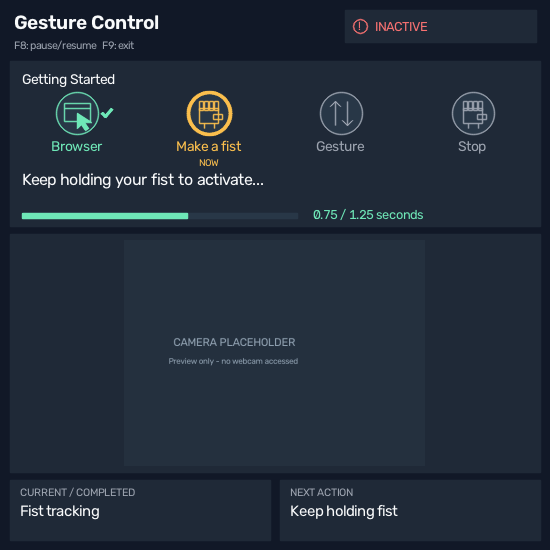
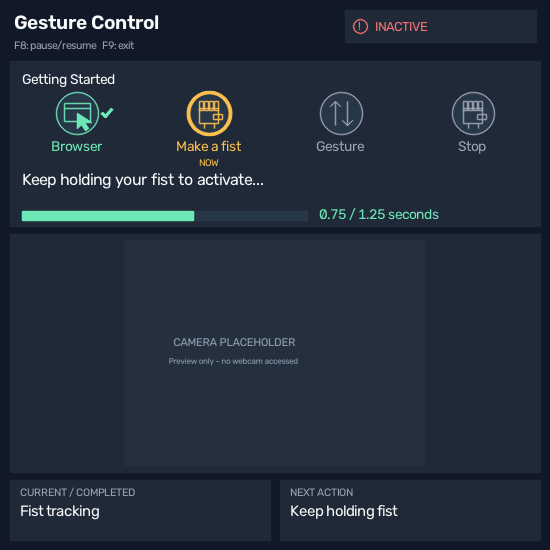
Move scroll arrow beside camera and enlarge hold progress feedback

Changed region(s): [[0.0309, 0.3709, 0.3709, 0.4018], [0.5564, 0.3709, 0.8036, 0.4018]]

diff --git a/ui.py b/ui.py
@@ -234,10 +234,10 @@ def compose_frame(camera_image, state, size=DEFAULT_SIZE):
     for row, value in enumerate(wrap_text(state.guidance, 506, .55, measure)):
         words(value, 22, 185 + row * 19, .55)
     if state.progress is not None:
-        box(22, 213, 275, 5, (71, 55, 40))
+        box(22, 211, 285, 9, (71, 55, 40))
         if state.progress > 0:
-            box(22, 213, 275 * state.progress, 5, green)
-        words(state.timer, 313, 219, .43, green)
+            box(22, 211, 285 * state.progress, 9, green)
+        words(state.timer, 319, 219, .49, green)
 
     box(10, 234, 530, 238)
     # The only raster resampling is the video, before any UI text is drawn.
@@ -250,13 +250,25 @@ def compose_frame(camera_image, state, size=DEFAULT_SIZE):
     interpolation = cv2.INTER_AREA if video_scale < 1 else cv2.INTER_LINEAR
     video = cv2.resize(camera_image, (video_w, video_h), interpolation=interpolation)
     x, y = left + (area_w - video_w) // 2, top + (area_h - video_h) // 2
+    # Normally the aspect-ratio padding provides the arrow's right gutter.
+    # Reserve a gutter for unusually wide feeds too, without stretching video.
+    gutter = round(64 * unit)
+    if state.direction and right - (x + video_w) < gutter:
+        video_scale = min((area_w - gutter) / w, area_h / h)
+        video_w, video_h = max(1, round(w * video_scale)), max(1, round(h * video_scale))
+        interpolation = cv2.INTER_AREA if video_scale < 1 else cv2.INTER_LINEAR
+        video = cv2.resize(camera_image, (video_w, video_h), interpolation=interpolation)
+        x = left + (area_w - gutter - video_w) // 2
+        y = top + (area_h - video_h) // 2
     canvas[y:y + video_h, x:x + video_w] = video
     if state.direction:
-        arrow_x = x + video_w - round(22 * unit)
-        arrow_top, arrow_bottom = y + video_h // 3, y + 2 * video_h // 3
+        camera_right = x + video_w
+        arrow_x = (camera_right + right) // 2
+        center_y = y + video_h // 2
+        arrow_half = round(min(video_h * .28, (right - camera_right) * .75))
+        arrow_top, arrow_bottom = center_y - arrow_half, center_y + arrow_half
         start, end = ((arrow_x, arrow_bottom), (arrow_x, arrow_top)) if state.direction == "up" else ((arrow_x, arrow_top), (arrow_x, arrow_bottom))
-        cv2.arrowedLine(canvas, start, end, bg, stroke(6), aa, tipLength=.25)
-        cv2.arrowedLine(canvas, start, end, green, stroke(3), aa, tipLength=.25)
+        cv2.arrowedLine(canvas, start, end, green, stroke(6), aa, tipLength=.25)
 
     for x, heading, value in ((10, "CURRENT / COMPLETED", state.current),
                               (280, "NEXT ACTION", state.next_action)):
